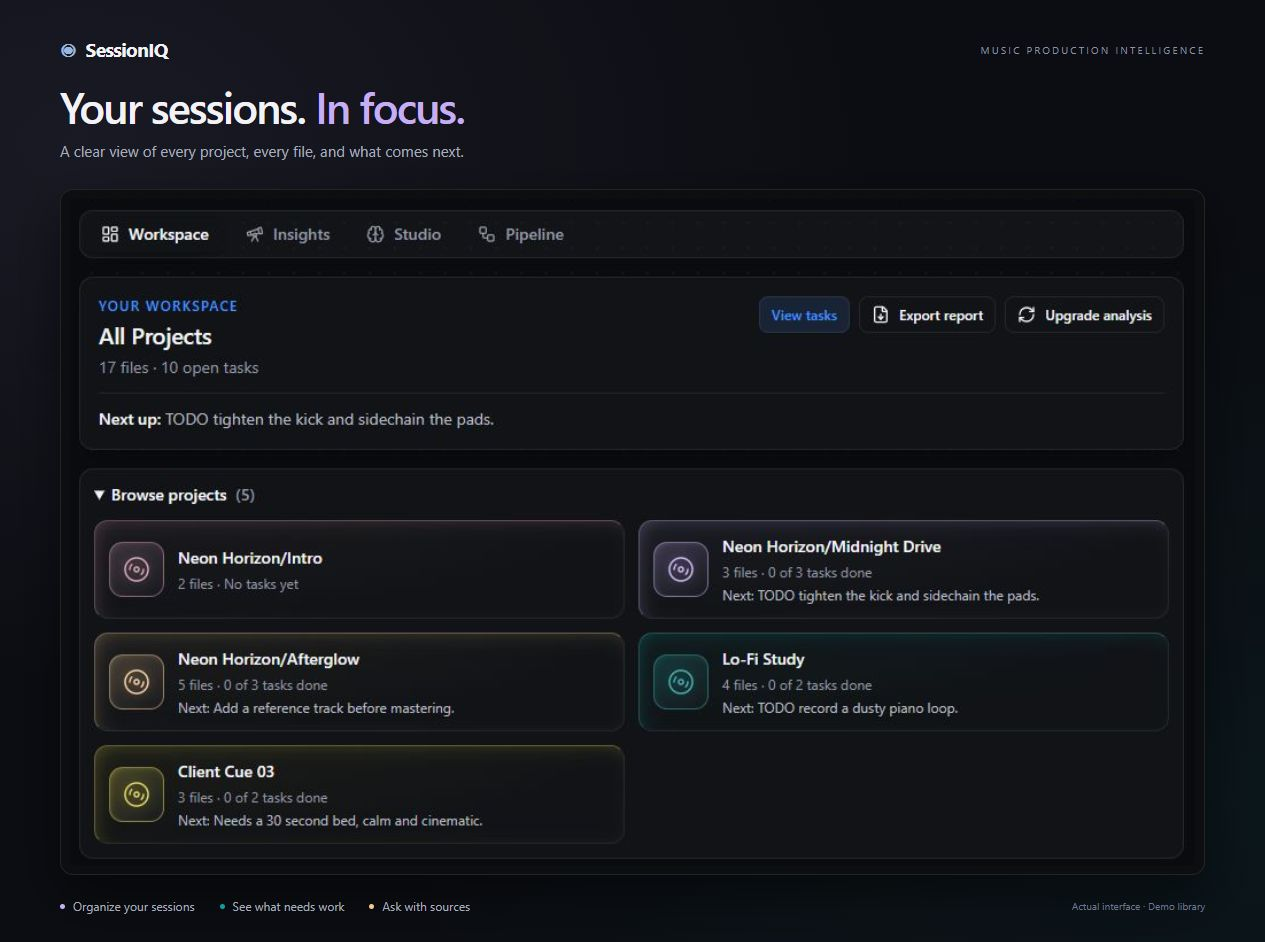
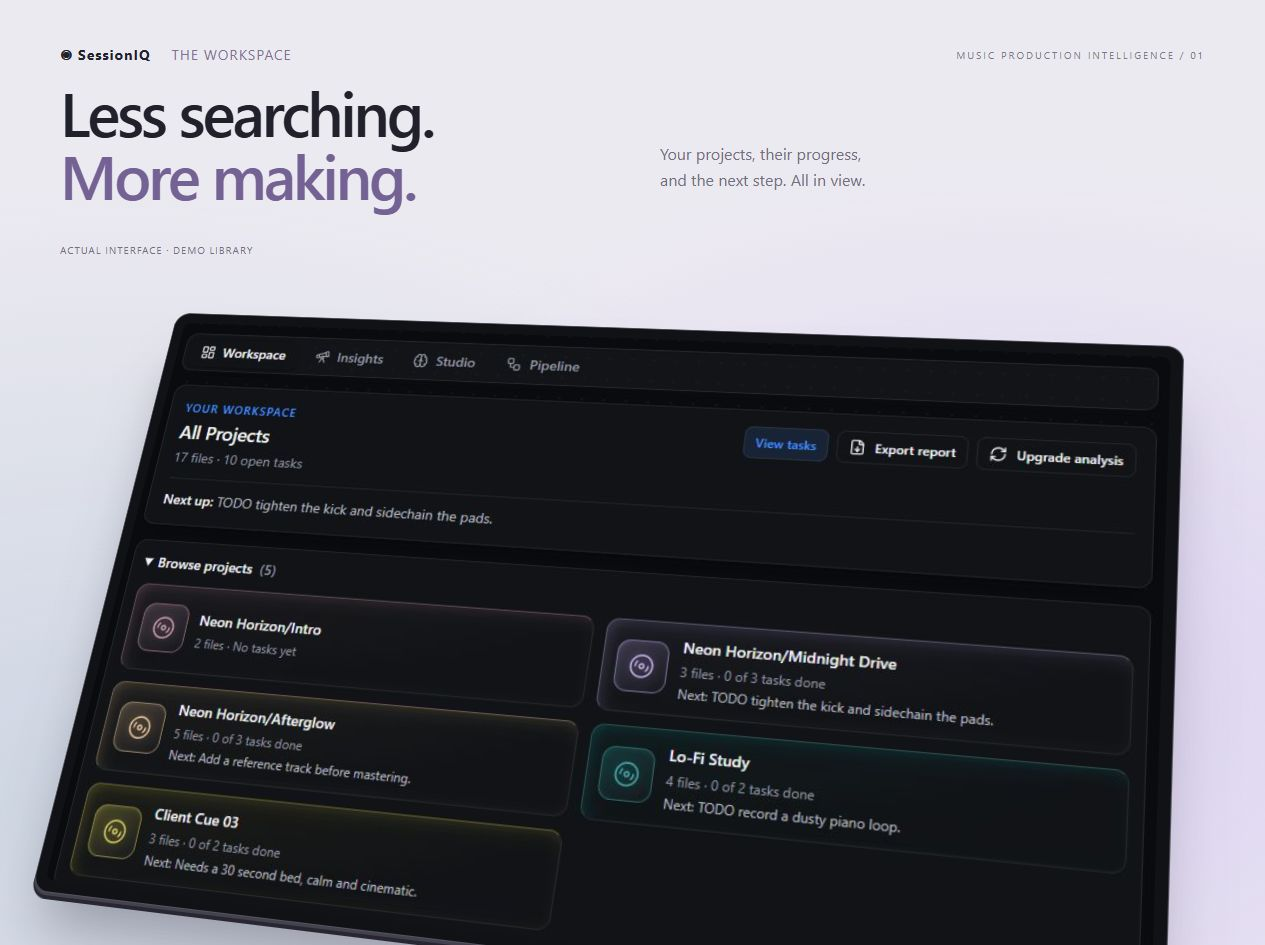
Add perspective workspace and Insights showcase images (#10)

diff --git a/README.md b/README.md
@@ -16,7 +16,7 @@ and answers questions about your work **with citations to the exact files it use
 [![Ruff](https://img.shields.io/badge/lint-ruff-261230?logo=ruff&logoColor=white)](https://docs.astral.sh/ruff/)
 [![License: MIT](https://img.shields.io/badge/License-MIT-yellow.svg)](LICENSE)
 
-![SessionIQ dashboard](docs/sessioniq-dashboard.png)
+![SessionIQ workspace — project tiles with subtle color accents, shown in perspective](docs/sessioniq-dashboard.png)
 
 </div>
 
@@ -190,6 +190,8 @@ and vector scores with fixed normalized weights, so asking questions stays quick
 grows past a thousand files.
 
 ## 🖼 A tour
+
+![SessionIQ Insights — creative prompts and next-up ranking, shown in perspective](docs/insights-showcase.png)
 
 <table>
 <tr>
